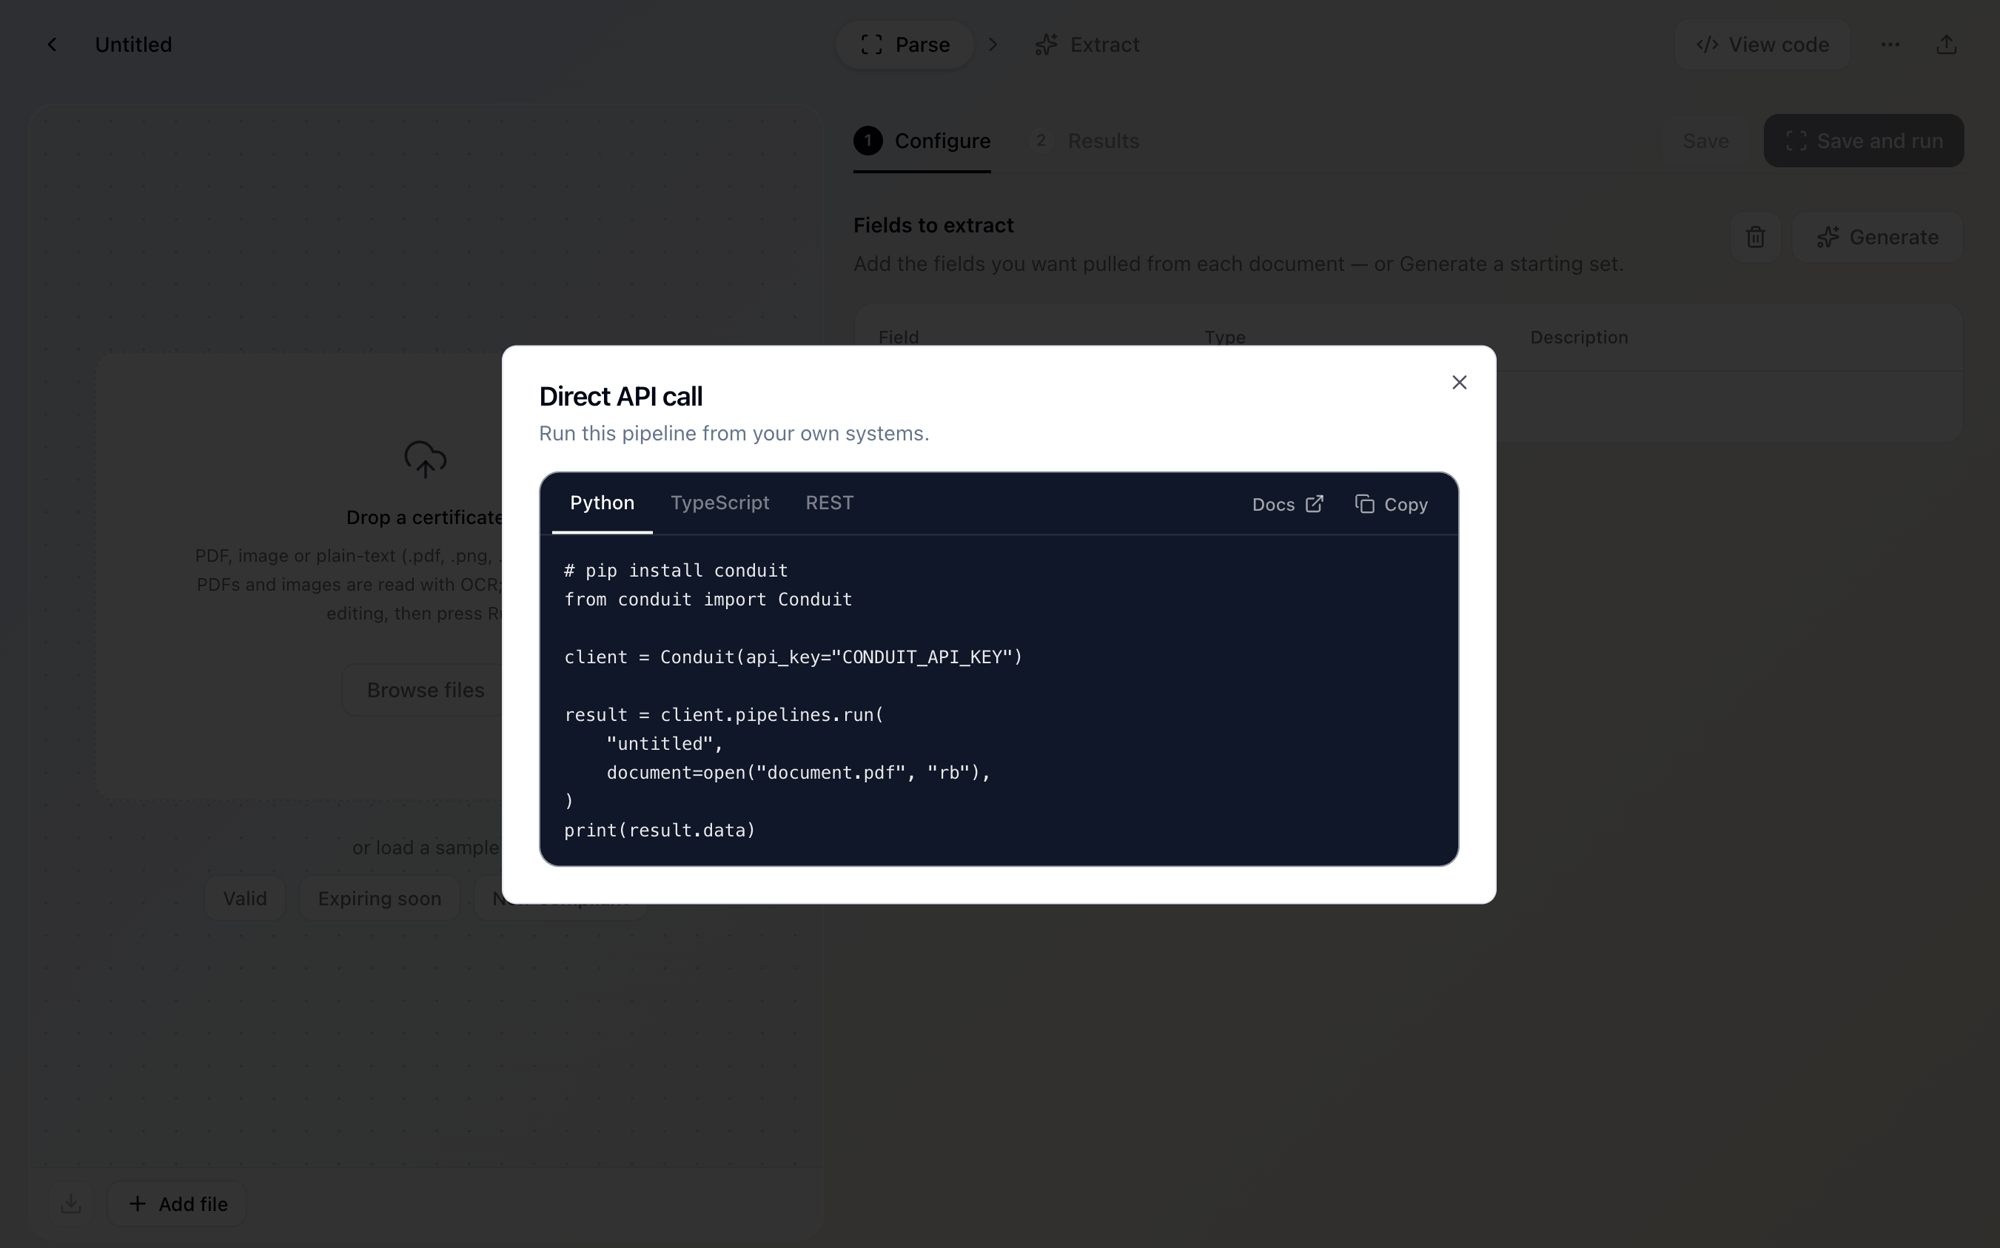
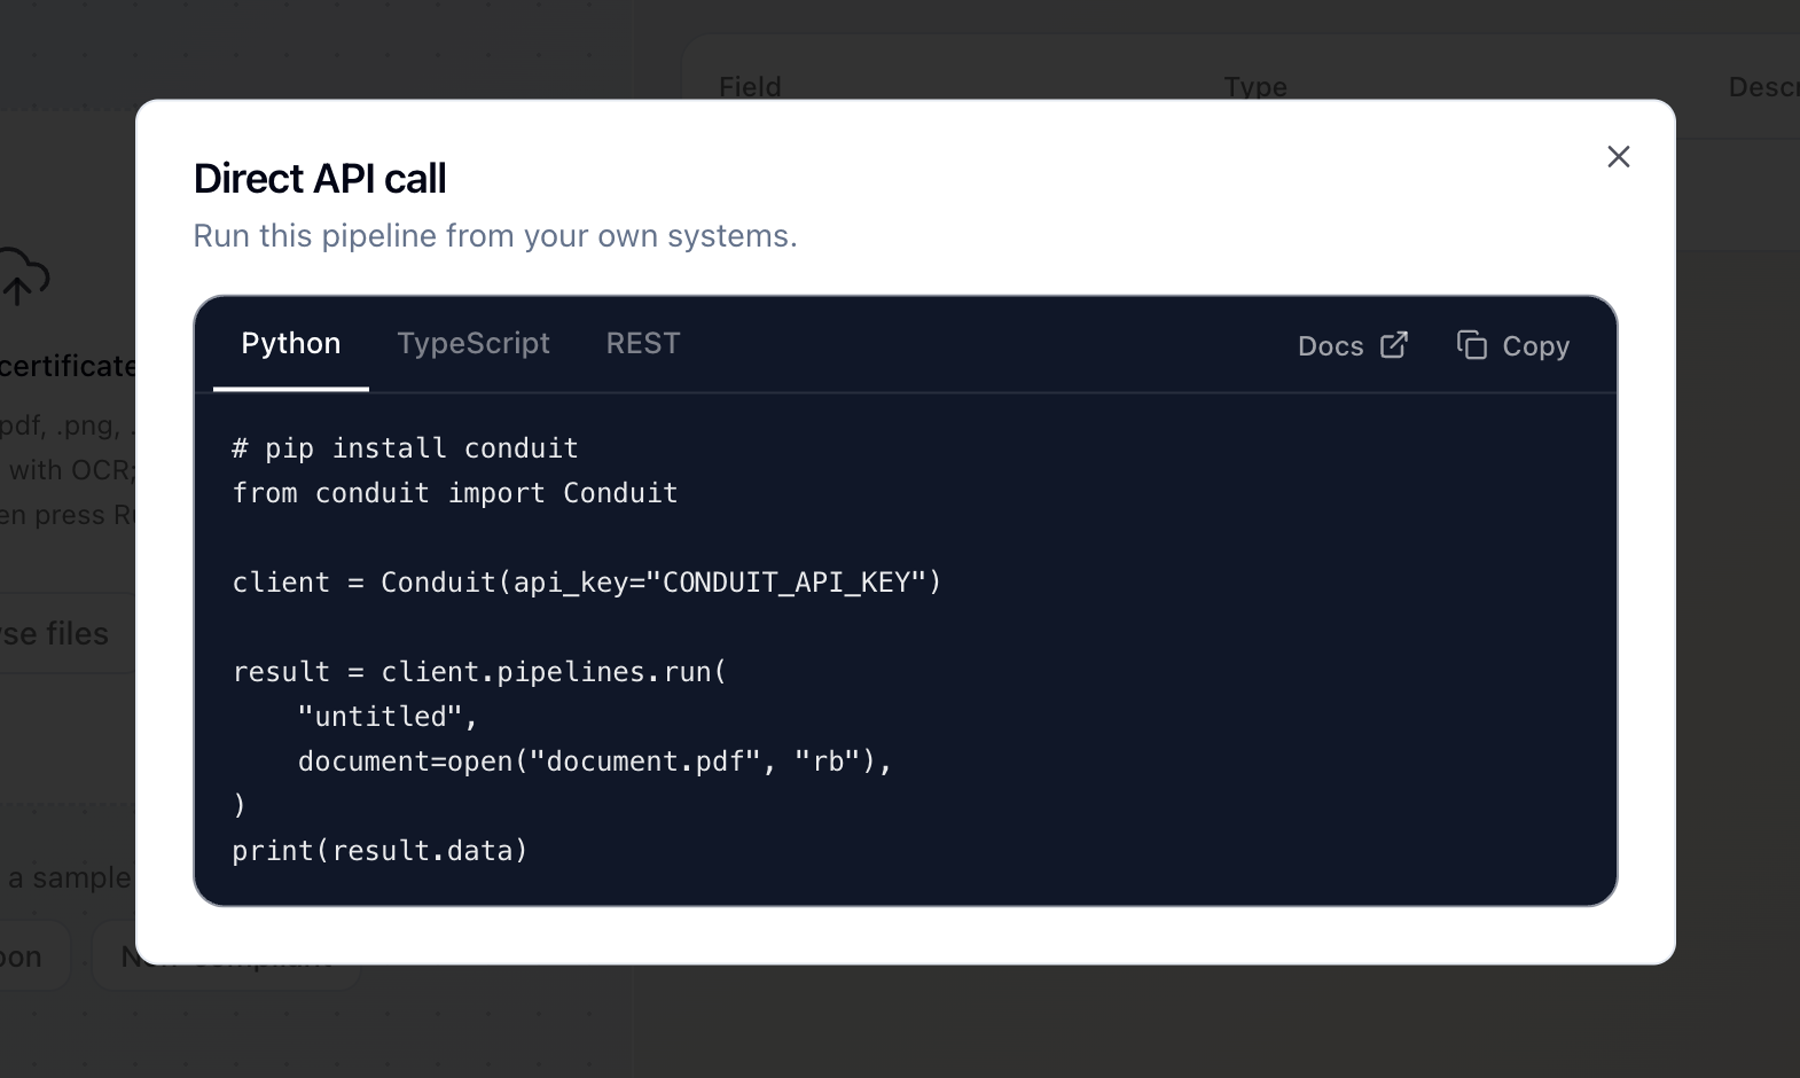
Home Conduit card: recut tiles to Runs, the fields schema table, and a centered API dialog
Claude-Session: https://claude.ai/code/session_01YKRZ3o63jhTuVRWukG9pu8

diff --git a/components/conduit-section.tsx b/components/conduit-section.tsx
@@ -1,41 +1,41 @@
 // Three distinct compositions of real product screens on a deep-blue tile:
-// the Extract builder floats whole, Runs is zoomed into its top-left, and the
-// API dialog is cut in close on its code. imgStyle positions each on its tile.
+// Runs floats as a clean record, the Extract fields table is framed on its
+// schema, and the API dialog is centered on its code. imgStyle places each.
 const CONDUIT_IMAGES: {
   src: string
   alt: string
   imgStyle: React.CSSProperties
 }[] = [
   {
-    src: "/conduit/home-config.png",
-    alt: "Extract builder: name the fields to pull from a supplier document",
-    imgStyle: {
-      width: "88%",
-      left: "9%",
-      top: "15%",
-      transform: "rotate(-2.5deg)",
-      boxShadow: "0 24px 50px -12px rgba(0,0,0,0.5)",
-    },
-  },
-  {
     src: "/conduit/home-runs.png",
     alt: "Runs: the documents the pipelines have processed",
     imgStyle: {
-      width: "190%",
+      width: "150%",
       maxWidth: "none",
-      left: "3%",
-      top: "6%",
+      left: "2%",
+      top: "9%",
       boxShadow: "0 24px 50px -12px rgba(0,0,0,0.45)",
+    },
+  },
+  {
+    src: "/conduit/home-schema.png",
+    alt: "Extract builder: the fields and types pulled from each document",
+    imgStyle: {
+      width: "132%",
+      maxWidth: "none",
+      left: "-1%",
+      top: "10%",
+      boxShadow: "0 24px 50px -12px rgba(0,0,0,0.5)",
     },
   },
   {
     src: "/conduit/home-api.png",
     alt: "Direct API call: run a saved pipeline from your own systems",
     imgStyle: {
-      width: "190%",
+      width: "136%",
       maxWidth: "none",
-      left: "-33%",
-      top: "-40%",
+      left: "-14%",
+      top: "-7%",
       boxShadow: "0 24px 50px -12px rgba(0,0,0,0.5)",
     },
   },
